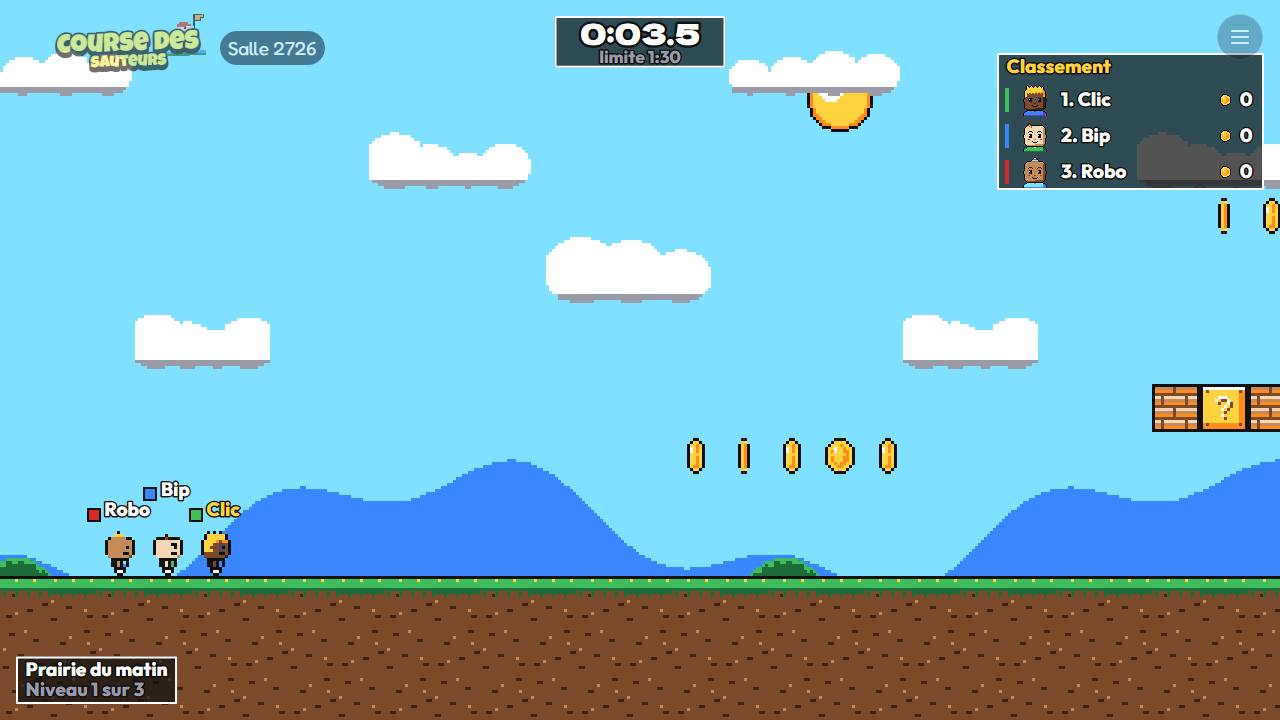
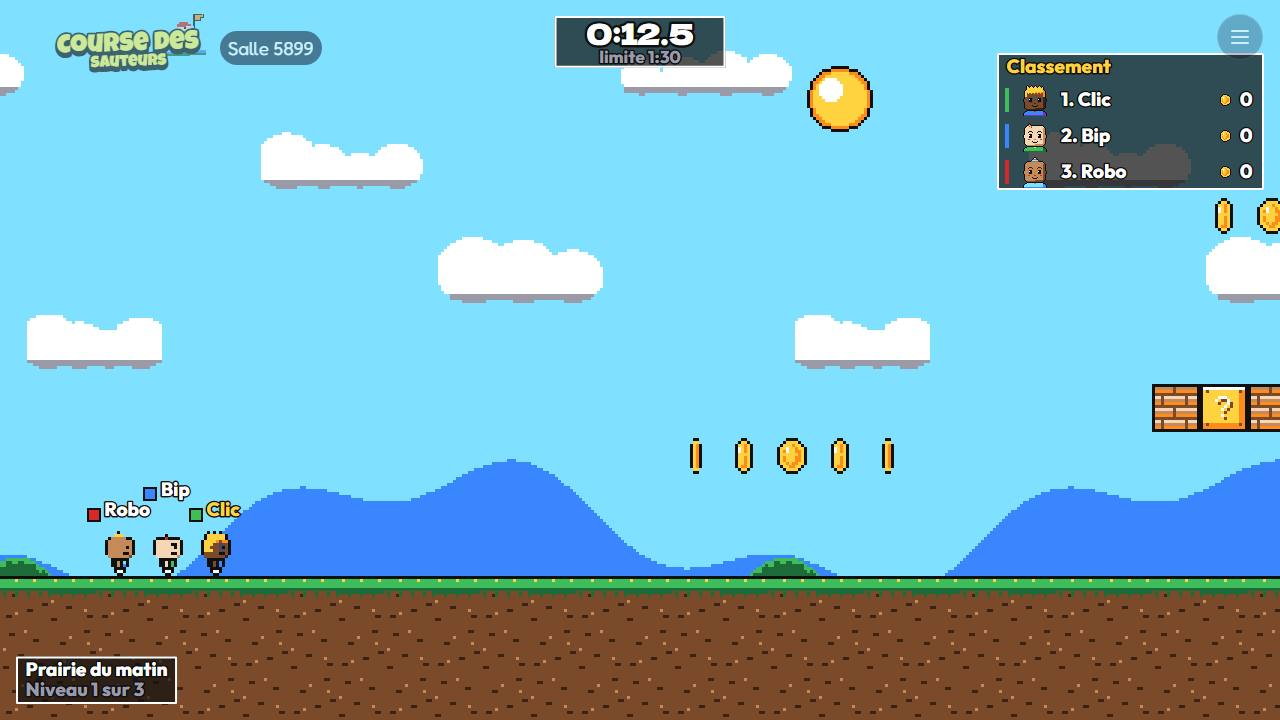
Sauteurs : un envoi par joueur, nouvelle photo de partie
Un résultat refusé ne fait plus perdre ceux des autres joueurs : chaque résultat part séparément et seuls les refus sont renvoyés. Photo de partie prise après 12 s de course.

Claude-Session: 51c0ec1e-5212-4f5e-833e-43af985c15e2

diff --git a/packages/games/src/sauteurs/client/RaceView.tsx b/packages/games/src/sauteurs/client/RaceView.tsx
@@ -131,35 +131,41 @@ export function RaceView({ pub, hostState, now, onAction }: RaceViewProps) {
     let disposed = false;
     let retryTimer = 0;
 
+    // Un envoi par joueur : un résultat refusé ne fait pas perdre ceux des autres, et seuls les refus sont renvoyés.
+    const unsent = new Set<string>();
     const sendResults = (attempt: number) => {
       const cur = latest.current;
-      if (!cur.onAction || disposed) {
+      const send = cur.onAction;
+      if (!send || disposed) {
         sendState = 'sent';
         return;
       }
       sendState = 'sending';
-      const results = world.players.map((p) => {
-        const s = summary(world, p.id);
-        return { playerId: p.id, finishTick: s.finished ? s.finishTick : null, coins: s.coins, deaths: s.deaths };
+      if (attempt === 0) for (const p of world.players) unsent.add(p.id);
+      const errors: string[] = [];
+      const tries = [...unsent].map((id) => {
+        const s = summary(world, id);
+        const result = { playerId: id, finishTick: s.finished ? s.finishTick : null, coins: s.coins, deaths: s.deaths };
+        return send('level-result', { levelIndex, results: [result] })
+          .then((res) => {
+            if (res.ok) unsent.delete(id);
+            else errors.push(res.error ?? 'refusé');
+          })
+          .catch(() => {
+            errors.push('réseau');
+          });
       });
-      void cur
-        .onAction('level-result', { levelIndex, results })
-        .then((res) => {
-          if (disposed) return;
-          if (res.ok) {
-            sendState = 'sent';
-          } else if (attempt + 1 < SEND_TRIES) {
-            retryTimer = window.setTimeout(() => sendResults(attempt + 1), SEND_RETRY_MS);
-          } else {
-            sendState = 'failed';
-            box.dataset.sendError = res.error ?? 'refusé';
-          }
-        })
-        .catch(() => {
-          if (disposed) return;
-          if (attempt + 1 < SEND_TRIES) retryTimer = window.setTimeout(() => sendResults(attempt + 1), SEND_RETRY_MS);
-          else sendState = 'failed';
-        });
+      void Promise.all(tries).then(() => {
+        if (disposed) return;
+        if (unsent.size === 0) {
+          sendState = 'sent';
+        } else if (attempt + 1 < SEND_TRIES) {
+          retryTimer = window.setTimeout(() => sendResults(attempt + 1), SEND_RETRY_MS);
+        } else {
+          sendState = 'failed';
+          box.dataset.sendError = errors[0] ?? 'refusé';
+        }
+      });
     };
 
     const publish = () => {

diff --git a/packages/games/src/sauteurs/module.ts b/packages/games/src/sauteurs/module.ts
@@ -343,7 +343,7 @@ export const sauteurs: GameModule<SauteursState, SauteursSettings> = {
     const deathsMax = maxDeaths(levelIndex);
 
     const accepted: Record<string, LevelEntry> = {};
-    // Tout ou rien : un seul résultat refusé annule l’envoi entier, l’hôte renvoie alors un lot corrigé.
+    // Tout ou rien par lot : un résultat refusé annule le lot. L’écran principal envoie un lot par joueur.
     for (const r of results) {
       const name = s.players[r.playerId];
       if (name === undefined) return fail('Joueur inconnu dans cette partie');
